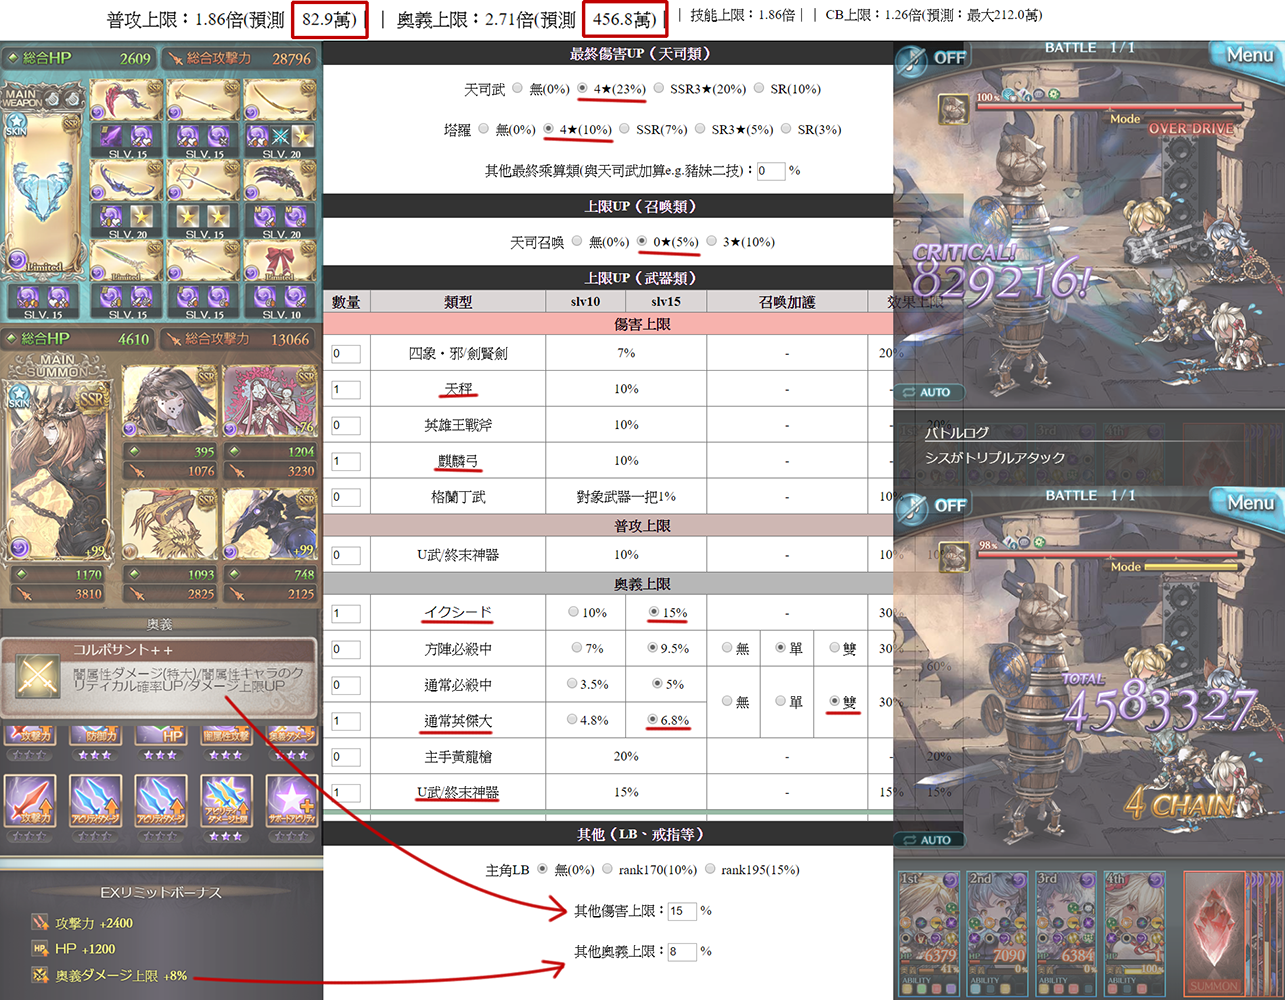
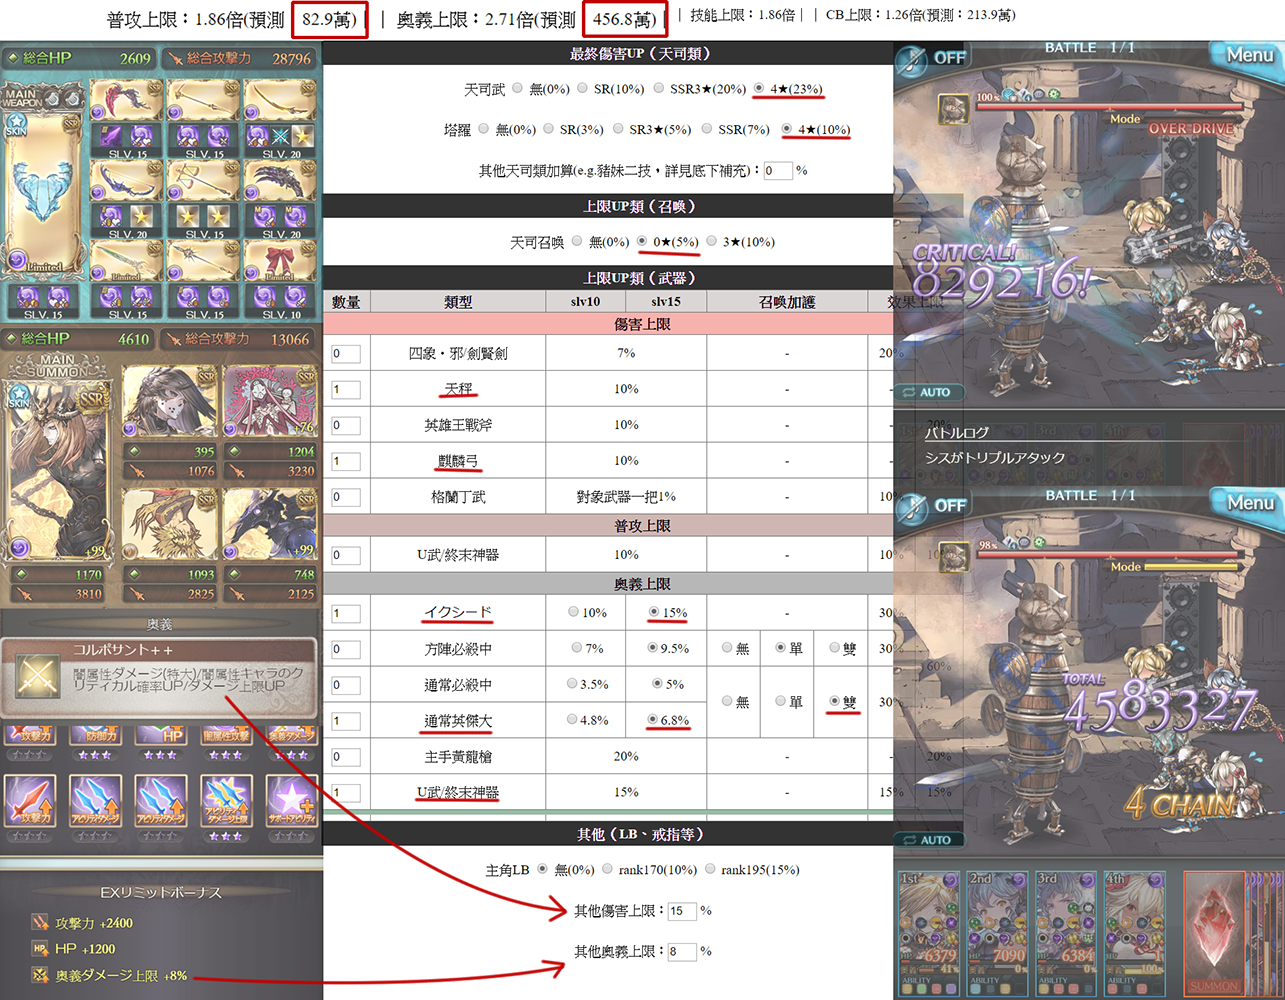
ver1.1

diff --git a/index.html b/index.html
@@ -1,5 +1,5 @@
 <!DOCTYPE html>
-<html lang="en">
+<html>
 <head>
     <meta charset="UTF-8">
     <meta name="viewport" content="width=device-width, initial-scale=1.0">
@@ -13,7 +13,7 @@
         　普攻上限：<span id="attackCap">1.00</span>倍(預測：<span id="estimatedAttack">44.5</span>萬)｜｜
         奧義上限：<span id="CACap">1.00</span>倍(預測：<span id="estimatedCA">168.5</span>萬)｜｜
         技能上限：<span id="skillCap">1.00</span>倍｜｜
-        CB上限：<span id="CBCap">1.00</span>倍(預測：最大<span id="estimatedCB">168.5</span>萬)
+        CB上限：<span id="CBCap">1.00</span>倍(預測：<span id="estimatedCB">170.0</span>萬)
     </header>
     <div class="container">
         <section><details><summary>使用範例（闇主天秤盤）</summary><img src="images/example.png"></details></section>
@@ -21,30 +21,30 @@
             <h4>最終傷害UP（天司類）</h4>
             <form name="seraphicUp" id="seraphicUp">
             <p>
-            天司武
+            【天司武】
             <label><input name="seraphic" type="radio" value="0" checked> 無(0%)</label>
-            <label><input name="seraphic" type="radio" value="0.23"> 4★(23%)</label>
-            <label><input name="seraphic" type="radio" value="0.2"> SSR3★(20%)</label>
             <label><input name="seraphic" type="radio" value="0.1"> SR(10%)</label>
+            <label><input name="seraphic" type="radio" value="0.2"> SSR3★(20%)</label>
+            <label><input name="seraphic" type="radio" value="0.23"> 4★(23%)</label>
             </p>
             <p>
-            塔羅
+            【塔羅召喚】
             <label><input name="arcarum" type="radio" value="0" checked> 無(0%)</label>
-            <label><input name="arcarum" type="radio" value="0.1"> 4★(10%)</label>
-            <label><input name="arcarum" type="radio" value="0.07"> SSR(7%)</label>
-            <label><input name="arcarum" type="radio" value="0.05"> SR3★(5%)</label>
             <label><input name="arcarum" type="radio" value="0.03"> SR(3%)</label>
+            <label><input name="arcarum" type="radio" value="0.05"> SR3★(5%)</label><br>
+            <label><input name="arcarum" type="radio" value="0.07"> SSR(7%)</label>
+            <label><input name="arcarum" type="radio" value="0.1"> SSR4★(10%)</label>
             </p>
             <p>
-            <label>其他最終乘算類(與天司武加算e.g.豬妹二技)：<input name="otherFinal" type="number" min="0" value="0"> %</label>
+            <label>【其他天司類加算】(e.g.豬妹二技，詳見底下補充)：<input name="otherFinal" type="number" min="0" value="0"> %</label>
             </p>
             </form>
         </section>
         <section>
-            <h4>上限UP（召喚類）</h4>
+            <h4>上限UP類（召喚）</h4>
             <form name="primarchUp" id="primarchUp">
             <p>
-            天司召喚
+            【天司召喚】
             <label><input name="primarch" type="radio" value="0" checked> 無(0%)</label>
             <label><input name="primarch" type="radio" value="0.05"> 0★(5%)</label>
             <label><input name="primarch" type="radio" value="0.1"> 3★(10%)</label>
@@ -52,7 +52,7 @@
             </form>
         </section>
         <section>
-            <h4>上限UP（武器類）</h4>
+            <h4>上限UP類（武器）</h4>
             <form name="weaponUp" id="weaponUp">
                 <table>
                     <tr><th class="attack" colspan="9">傷害上限</th></tr>
@@ -61,7 +61,7 @@
                     </thead>
                     <tbody>
                     <tr>
-                        <td><input name="beast" type="number" value="0" min="0" max="3"></td><td>四象．邪/劍賢劍</td>
+                        <td><input name="beast" type="number" value="0" min="0" max="3"></td><td>四象．邪/角色武</td>
                         <td colspan="2">7%</td><td colspan="3">-</td><td>20%</td><td rowspan="5">20%</td>
                     </tr>
                         <td><input name="scales" type="number" value="0" min="0" max="1"></td><td>天秤</td>
@@ -79,7 +79,7 @@
                     <tr><th class="normal" colspan="9">普攻上限</th></tr>
                     <tr>
                         <td><input name="omegaAttack"" type="number" value="0" min="0" max="1"></td><td>U武/終末神器</td>
-                        <td colspan="2">10%</td><td colspan="3">-</td><td>10%</td><td>10%</td>
+                        <td colspan="2">10%</td><td colspan="3">-</td><td>-</td><td>10%</td>
                     </tr>
                     <tr><th class="CA" colspan="9">奧義上限</th></tr>
                     <tr>
@@ -89,7 +89,7 @@
                         <td colspan="3">-</td><td>30%</td><td rowspan="4">60%</td>
                     </tr>
                     <tr>
-                        <td><input name="sentenceoNum" type="number" value="0" min="0" max="4"></td><td>方陣必殺中</td>
+                        <td><input name="sentenceoNum" type="number" value="0" min="0" max="3"></td><td>方陣必殺中</td>
                         <td><label><input name="sentenceo" type="radio" value="0.07">7%</label></td>
                         <td><label><input name="sentenceo" type="radio" value="0.095" checked>9.5%</label></td>
                         <td><label><input name="summono" type="radio" value="1">無</label></td>
@@ -98,7 +98,7 @@
                         <td>30%</td>
                     </tr>
                     <tr>
-                        <td><input name="sentenceNum" type="number" value="0" min="0" max="5"></td><td>通常必殺中</td>
+                        <td><input name="sentenceNum" type="number" value="0" min="0" max="3"></td><td>通常必殺中</td>
                         <td><label><input name="sentence" type="radio" value="0.035">3.5%</label></td>
                         <td><label><input name="sentence" type="radio" value="0.05" checked>5%</label></td>
                         <td rowspan="2"><label><input name="summon" type="radio" value="1">無</label></td>
@@ -117,22 +117,22 @@
                     </tr>
                     <tr>
                         <td><input name="omedaCA" type="number" value="0" min="0" max="1"></td><td>U武/終末神器</td>
-                        <td colspan="2">15%</td><td colspan="3">-</td><td>15%</td><td>15%</td>
+                        <td colspan="2">15%</td><td colspan="3">-</td><td>-</td><td>15%</td>
                     </tr>
                     <tr><th class="skill" colspan="9">技能上限</th></tr>
                     <tr>
-                        <td><input name="artsNum" type="number" value="0" min="0" max="3"><td>アーツ系列</td>
+                        <td><input name="artsNum" type="number" value="0" min="0" max="3"><td>アーツ</td>
                         <td><label><input name="arts" type="radio" value="0.1">10%</label></td>
                         <td><label><input name="arts" type="radio" value="0.15" checked>15%</label></td>
                         <td colspan="3">-</td><td>40%</td><td rowspan="3">40%</td>
                     </tr>
                     <tr>
                         <td><input name="twoSword" type="number" value="0" min="0" max="1"><td>雙劍術(4★職武)</td>
-                        <td colspan="2">10%</td><td colspan="3">-</td><td>10%</td>
+                        <td colspan="2">10%</td><td colspan="3">-</td><td>-</td>
                     </tr>
                     <tr>
                         <td><input name="dualBlade" type="number" value="0" min="0" max="1"><td>雙劍．英勇</td>
-                        <td colspan="2">20%</td><td colspan="3">-</td><td>20%</td>
+                        <td colspan="2">20%</td><td colspan="3">-</td><td>-</td>
                     </tr>
                     <tr>
                         <td><input name="qilinLyre" type="number" value="0" min="0" max="1"><td>主手麒麟弦</td>
@@ -140,7 +140,7 @@
                     </tr>
                     <tr>
                         <td><input name="omegaSkill" type="number" value="0" min="0" max="1"><td>U武/終末神器</td>
-                        <td colspan="2">50%</td><td colspan="3">-</td><td>50%</td><td>50%</td>
+                        <td colspan="2">50%</td><td colspan="3">-</td><td>-</td><td>50%</td>
                     </tr>
                     <tr><th class="CB" colspan="9">CB上限</th></tr>
                     <tr>
@@ -163,7 +163,7 @@
                     </tr>
                     <tr>
                         <td><input name="omedgCB" type="number" value="0" min="0" max="1"><td>U武/終末神器</td>
-                        <td colspan="2">50%</td><td colspan="3">-</td><td>50%</td>
+                        <td colspan="2">50%</td><td colspan="3">-</td><td>-</td>
                     </tr>
                     </tbody>
                 </table>
@@ -173,10 +173,15 @@
             <h4>其他（LB、戒指等）</h4>
             <form name="otherType" id="otherType">
                 <p>
-                    主角LB
+                    【主角LB】
                     <label><input name="lb" type="radio" value="0" checked> 無(0%)</label>
                     <label><input name="lb" type="radio" value="0.1"> rank170(10%)</label>
                     <label><input name="lb" type="radio" value="0.15"> rank195(15%)</label>
+                </p>
+                <p>
+                    【Buff】
+                    <label><input name="buff" type="radio" value="0" checked> 無(0%)</label>
+                    <label><input name="buff" type="radio" value="1"> 反骨/追打系(普攻116萬/奧義+50萬)</label>
                 </p>
                 <p>
                     <label>其他傷害上限：<input name="other" type="number" min="0" value="0"> %</label>
@@ -195,14 +200,60 @@
                 <p>
                     <label><input name="specialCA" type="radio" value="168.5" checked> 一般(168萬)</label>
                     <label><input name="specialCA" type="radio" value="215"> 露莉亞(215萬)</label>
-                    <label><input name="specialCA" type="radio" value="203"> 終解十天眾(203萬)</label><br>
+                    <label><input name="specialCA" type="radio" value="202"> 終解十天眾(202萬)</label><br>
                     <label><input name="specialCA" type="radio" value="215"> 蘿蔔米(215萬)</label>
                     <label><input name="specialCA" type="radio" value="290"> 光女僕(290萬)</label>
                     <label><input name="specialCA" type="radio" value="337"> 米琳(337萬)</label>
                 </p>
             </form>
         </section>
-        <footer><button onclick="topBtn()" id="topBtn">TOP</button></footer>
+        <section>
+            <details>
+                <summary>遊戲用語</summary>
+                <article>
+                    <p>遊戲中跟上限有關的敘述，大致能這樣區分：</p>
+                    <p>ダメージ上限UP：提高傷害上限。</p>
+                    <p>与ダメージUP：天司類增傷。</p>
+                    <p>与ダメージ上昇：最終加算的固定傷害。(e.g.虛空武)</p>
+                </article>
+            </details>
+            <details>
+                <summary>天司類補充</summary>
+                <article>
+                    <p>不同於單純提高上限，天司武和塔羅(俗稱天司類)與最終傷害乘算。</p>
+                    <p>角色（如終十天）的天司類被動與天司武器衝突；部分技能、被動自帶普攻天司效果，這類效果不限克屬且與其他天司類加算，
+                        例如：
+                        <ul>
+                            <li>士兵limit技(10%)</li>
+                            <li>L莫妮卡刀奧義(全體10%)</li>
+                            <li>希斯一技(30%)</li>
+                            <li>濕婆被動(15%)</li>
+                            <li>豬妹二技(全體5%~15%)和被動(15%)</li>
+                            <li>戰車被動(10%~25%)</li>
+                            <li>漢女三技(條件全體10%)</li>
+                            <li>斯坦&阿莉莎三技(10%)</li>
+                            <li>聖誕繆昂被動(50%)</li>
+                            <li>火黑道狐二技(10%)</li>
+                        </ul>
+                    </p>
+                </article>
+            </details>
+            <details>
+                <summary>武器補充</summary>
+                <article>
+                    <ul>
+                    <li>效果同四象．邪：劍賢、水狐解放武。</li>
+                    <li>イクシード(exceed/excelsior)：闇高寶斧、黑風媽短、黑鰻魚短、（風維拉、塔尼亞、冰皇）解放武。</li>
+                    <li>アーツ(arts)：火連隊劍、水連隊銃、戰斧、天秤、（光教官、光銀姊、情人玉米、仇閃醬、路西烏斯、班特）解放武。</li>
+                    <li>チェインフォース(chain force)：風連隊劍、水高寶劍。</li>
+                    </ul>
+                </article>
+            </details>
+        </section>
+        <footer>
+            <button onclick="topBtn()" id="topBtn">TOP</button>
+            <p style="font-size: 0.8em">最後更新：2020/02/14</p>
+        </footer>
     </div>
 <script type="text/javascript" src="main.js"></script>
 </body>

diff --git a/main.js b/main.js
@@ -49,7 +49,11 @@ function attackCal(){
     Number(otherType.other.value)/100;
     const attackDisplay = (seraphicTotal+1) * (others+1);
     attackCap.textContent = attackDisplay.toFixed(2);
-    estimatedAttak.textContent = (attackDisplay * 44.5).toFixed(1);
+    if (otherType.buff.value == 1){
+        estimatedAttak.textContent = (attackDisplay * 116).toFixed(1);
+    } else {
+        estimatedAttak.textContent = (attackDisplay * 44.5).toFixed(1);
+    }
 }
 function CACal(){
     const seraphicTotal = Number(seraphicUp.seraphic.value) + Number(seraphicUp.arcarum.value);
@@ -64,7 +68,11 @@ function CACal(){
     Number(otherType.otherCA.value)/100;
     const CADisplay = (seraphicTotal+1) * (others+1);
     CACap.textContent = CADisplay.toFixed(2);
-    estimatedCA.textContent = (CADisplay * Number(special.specialCA.value)).toFixed(1);
+    if (otherType.buff.value == 1){
+        estimatedCA.textContent = (CADisplay * Number(special.specialCA.value) + 50).toFixed(1);
+    } else {
+        estimatedCA.textContent = (CADisplay * Number(special.specialCA.value)).toFixed(1);
+    }
 }
 function skillCal(){
     const seraphicTotal = Number(seraphicUp.seraphic.value) + Number(seraphicUp.arcarum.value);
@@ -83,7 +91,7 @@ function skillCal(){
 function CBCal(){
     const CBDisplay = (handleCB()+1);
     CBCap.textContent = CBDisplay.toFixed(2);
-    estimatedCB.textContent = (CBDisplay * 168.5).toFixed(1);
+    estimatedCB.textContent = (CBDisplay * 170).toFixed(1);
 }
 //==============處理各別上限==============
 function handleCommonCap(){

diff --git a/style.css b/style.css
@@ -3,6 +3,16 @@ body {
     text-align: center;
     background-color: #fff;
 }
+header {
+    position: fixed;
+    width: 100%;
+    height: 30px;
+    top: 0;
+    right: 0;
+    padding: 10px;
+    border-bottom: solid 1px;
+    background-color: #F2F2F2;
+}
 .container {
     margin: auto;
     padding-top: 45px;
@@ -13,6 +23,10 @@ body {
 }
 summary {
     line-height: 1.8em;
+    border-top: solid 1px #777;
+}
+summary:hover {
+    background-color: #E2E2E2;
 }
 img {
     width: 100%;
@@ -23,9 +37,19 @@ h4 {
     line-height: 1.8em;
     background-color: #333;
 }
+input {
+    max-width: 30px;
+}
 section {
     text-align: center;
     line-height: 2.5em;
+}
+article {
+    margin: auto;
+    width: 80%;
+    text-align: left;
+    background-color: #E2E2E2;
+    border-radius: 10px;
 }
 p {
     margin: 0.5em;
@@ -58,19 +82,6 @@ th {
 }
 .CB {
     background-color: #C3E0D0;
-}
-input {
-    max-width: 30px;
-}
-header {
-    position: fixed;
-    width: 100%;
-    height: 30px;
-    top: 0;
-    right: 0;
-    padding: 10px;
-    border-bottom: solid 1px;
-    background-color: #fff;
 }
 footer {
     border-top: solid 1px #777;
